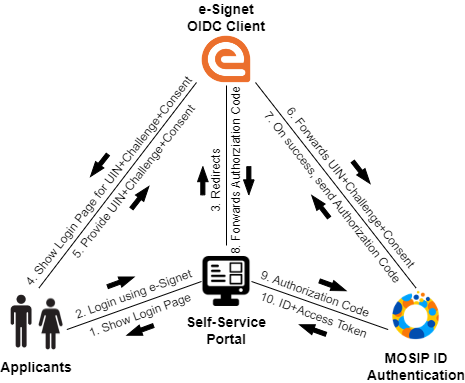
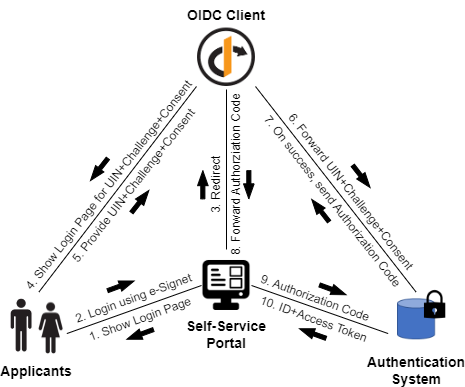
GITBOOK-185: Rework for feedback given by Puneet

diff --git a/beneficiary-management/README.md b/beneficiary-management/README.md
@@ -34,44 +34,60 @@ Program enrolment and entitlement decisions can be monopolized by a single entit
 Not notifying beneficiaries about their enrolment and entitlement can leave them confused, and undermines credibility and transparency. This step is often neglected in administrative-driven systems.
 {% endhint %}
 
-### Program management process
+## OpenG2P program management interface
+
+OpenG2P platform has a backend office application for program administrators. The platform allows multiple programs to run in parallel. These programs enrol the registrants from the same registry database. Its program management module offers a rich set of functions for enrolment, eligibility criteria, program cycles, entitlement, and notifications.
+
+## OpenG2P program management process
 
 The figure below shows a high-level representation of the enrollment management process.
 
 <figure><img src="https://github.com/OpenG2P/openg2p-documentation/raw/a8a98c86cd7b0a186213e588d8642aac12eb64a6/.gitbook/assets/program-management-process.png" alt=""><figcaption></figcaption></figure>
 
-### OpenG2P program management features
+### Eligibility criteria
 
-OpenG2P platform has a backend office application for program administrators. Its program management module offers a rich set of functions to define various beneficiary programs, enrol beneficiaries based on eligibility, calculate entitlements, and disburse benefits to the beneficiaries. These are some of the features provided by the OpenG2P platform:
+Program administrators configure eligibility criteria to enrol the eligible registrants in the program. OpenG2P Eligibility Managers provide these functions:
+
+#### Domain filters
+
+OpenG2P supports a variety of domain filters to set criteria for age, gender, household size, composition, and location. Program administrators can use these filters to define eligibility criteria.
 
 #### Proxy Means Test
 
-The Proxy Means Test is considered the most effective approach to reduce the error of exclusion arising from bias, preferences, and monopoly of the program participants.&#x20;
-
-#### Eligibility filters
-
-OpenG2P supports various eligibility filters to enrol potential beneficiaries based on criteria such as age, gender, household size and composition, and location. Program Administrators can use these filters for Categorical Targeting as well.
+The Proxy Means Test (PMT) is considered the most effective approach to reduce the error of exclusion. PMT is available as a separate plug-in in the OpenG2P platform. Using this plug-in, Program administrators can configure the regression analysis formula.
 
 #### Computed fields
 
-Computed fields are a powerful tool for abstracting information from a set of fields. Program Administrators can use these fields to decide the eligibility of each registrant.
+Computed fields are a powerful tool for abstracting information from a set of fields. Program administrators can use these fields in PMT and domain filters to configure complex eligibility criteria.
 
-#### Document upload and view
+### Deduplication criteria
 
-The supporting documents uploaded by the social workers are stored in the cloud, [MinIO ](https://min.io/)(open-source storage), or any external storage based on the system configuration. Program administrators can later view these documents from the program view for assessment and verification.
+The OpenG2P registry allows [multiple entries](../secure-registry/registry.md#multiple-entries) for the same registrant. Hence once the registrants are enrolled in the program as beneficiaries, they should be deduplicated. OpenG2P Deduplication Managers can deduplicate the beneficiaries based on foundational/functional IDs, and phone numbers.
+
+### Program cycles
+
+Social benefit delivery programs for unemployment benefits, pensions, and scholarships are cyclic in nature and disburse payments in multiple cycles. Using OpenG2P Program Manager and Cycle Manager, the program administrators can create multiple cycles and disburse benefits.
+
+### Entitlements
+
+Program administrators can use OpenG2P Entitlement Manager to configure all the aspects related to beneficiary entitlement. OpenG2P Entitlement Manager provides these configurations:
+
+#### Entitlement amount
+
+Program administrators can configure entitlement amount, currency, and transfer fee. Further, the entitlement amount for each individual in a group and the maximum number of individuals in the group can be configured.&#x20;
+
+#### Entitlement vouchers
+
+An entitlement voucher authorises the intended beneficiary to claim the benefits at the service provider facility. The voucher has customized QR codes embedded. The QR code provides a digital signature that makes the voucher tamper-proof and establishes the authenticity of the voucher.
 
 #### Multi-stage approvals
 
-To avoid concentration of power and errors in decision-making abilities, Program Administrators can configure multiple stages and assign an assessment role for each stage. OpenG2P has successfully run a pilot program for the Philippines in which three program participants - one social worker and two officers, independently assess and approve entitlements.&#x20;
+To avoid concentration of power and errors in deciding the entitlement amount, Program administrators can configure multiple stages and assign a role for each stage.
 
-#### Program cycles
+### Notifications
 
-OpenG2P platform allows the Program Administrators to divide the benefit disbursements into multiple cycles. Multiple cycles can enable the administrators to easily monitor the program for the effectiveness of enrolments and entitlements.
+The beneficiaries can be notified (not shown in the diagram above) when they are entitled to benefits. OpenG2P platform provides Notification Managers that can be configured to send SMS, email, and Fast2SMS notifications to the beneficiaries. These notifications can be customized using templates. To learn more, click [here](notifications.md).
 
-#### Multiple notification channels
+### Document upload and view
 
-OpenG2P can send SMS, email, and Fast2SMS notifications to the beneficiaries. These notifications can be customized based on the mode of notification. To learn more, click [here](notifications.md).
-
-#### Monitoring multiple programs in parallel
-
-OpenG2P platform allows multiple programs to run in parallel. These programs enrol the registrants from the same registry database. Program administrators can use the [integrated reporting framework](../monitoring-and-reporting.md) to generate reports on registrants, beneficiaries, disbursements, and beneficiary categories, to name a few.
+The supporting documents uploaded by the social workers are stored in the cloud, [MinIO ](https://min.io/)(open-source storage), or any external storage based on the system configuration. Program administrators can later view these documents from the program view for assessment and verification.

diff --git a/secure-registry/registration-methods/self-service-portal.md b/secure-registry/registration-methods/self-service-portal.md
@@ -2,7 +2,7 @@
 
 ## Introduction
 
-Self-Service Portal allows an applicant seeking assistance to register from any place and device with internet connectivity. The applicant logs in using a foundational or functional ID and then applies for a program. For self-registration,  an OTP or QR code is typically used in addition to a unique ID number for logging in. For assisted registration, the assisting officer uses a biometric device connected to the machine hosting the Self-Service Portal for biometric authentication.
+Self-Service Portal allows a registrant seeking assistance to register from any place and device with internet connectivity. The registrant logs in using a foundational or functional ID and then applies for a program. For self-registration,  an OTP or QR code is typically used in addition to a unique ID number for logging in. For assisted registration, the assisting officer uses a biometric device connected to the machine hosting the Self-Service Portal for biometric authentication.
 
 The Self-Service Portal registration process assumes that an authentication service is available for ID verification. The portal allows an individual to perform the following functions:
 
@@ -11,30 +11,30 @@ The Self-Service Portal registration process assumes that an authentication serv
 * Track the status of the application
 * Update demographic information
 * Upload supporting documents
-* View the programs the applicant is enrolled into&#x20;
+* View the programs the registrant is enrolled into&#x20;
 * View all the demographic information submitted across programs
 
-Depending on the program implementation, the applicant can also apply for the same program multiple times to seek assistance multiple times. An example of such a case is seeking medical assistance for different treatments. It is assumed that program administrators will apply mechanisms to prevent cases of double-dipping.
+Depending on the program implementation, the registrant can also apply for the same program multiple times to seek assistance multiple times. An example of such a case is seeking medical assistance for different treatments. It is assumed that program administrators will apply mechanisms to prevent cases of double-dipping.
 
 ## Registration process
 
-A program administrator has to carry out these steps to allow applicants to apply for a program:
+A program administrator has to carry out these steps to allow registrants to apply for a program:
 
 * Create a program: To learn the steps, click [here](../../guides/user-guides/create-a-program.md).
 * Create a Self-Service Portal form: To learn the steps, click [here](../../guides/user-guides/create-portal-form.md).
 * Map Self-Service Portal form: To learn the steps, click [here](../../guides/user-guides/map-self-service-portal-form.md).
 
-Applicant's ID verification takes place during the login. The applicant also provides consent to share demographic details with the Self-Service Portal. Upon successful ID verification, the Self-Service Portal can automatically fill in the applicant's demographic details based on the consent provided during login. The applicant fills in the rest of the details and applies for a program. Learn more about self-registration [here](../../guides/user-guides/self-register-online.md).
+Registrant's ID verification takes place during the login. The registrant also provides consent to share demographic details with the Self-Service Portal. Upon successful ID verification, the Self-Service Portal can automatically fill in the registrant's demographic details based on the consent provided during login. The registrant fills in the rest of the details and applies for a program. Learn more about self-registration [here](../../guides/user-guides/self-register-online.md).
 
 ## OpenID Connect integration
 
 The Self-Service Portal allows integration with any OpenID Connect (OIDC) client. The portal has an existing integration with [e-Signet](https://docs.esignet.io/). To learn more about ID verification using e-Signet, click [here](../id-verification.md#applicant-authentication-using-e-signet).
 
-### MOSIP integration
+### OIDC integration
 
-The Self-Service Portal also integrates with MOSIP to provide user login via MOSIP ID.
+The Self-Service Portal can integrate with any OIDC server to provide user login.
 
-<figure><img src="../../.gitbook/assets/ssp-login-page (1).png" alt=""><figcaption></figcaption></figure>
+<figure><img src="../../.gitbook/assets/integration-with-oidc (1).png" alt=""><figcaption></figcaption></figure>
 
 ## Registration demo
 

diff --git a/secure-registry/id-verification.md b/secure-registry/id-verification.md
@@ -2,20 +2,20 @@
 
 ## Introduction
 
-OpenG2P registration interfaces can be integrated with OIDC clients and ID authentication systems to authenticate applicants/registrants. OpenG2P employs different ID authentication mechanisms in its registration interfaces. While these are the preferred mechanisms, OpenG2P is not tied to these mechanisms and can integrate with other OIDC-compliant clients and authentication systems like the national ID database.
+OpenG2P registration interfaces can be integrated with OIDC clients and ID authentication systems to authenticate registrants. OpenG2P employs different ID authentication mechanisms in its registration interfaces. While these are the preferred mechanisms, OpenG2P is not tied to these mechanisms and can integrate with other OIDC-compliant clients of authentication systems for foundational/functional ID.
 
 ### Registrant authentication using OpenID Connect
 
-OpenG2P's Self-Service Portal can be integrated with an OpenID Connect Client such as e-Signet to build a trustworthy authentication interface. The OIDC Client utilizes an authentication system such as MOSIP or national ID database to authenticate the applicants in the backend.&#x20;
+OpenG2P's Self-Service Portal can be integrated with an OpenID Connect Client such as e-Signet to build a trustworthy authentication interface. The OIDC Client utilizes an authentication system of any foundational or functional ID database to authenticate the registrants in the backend.&#x20;
 
-<figure><img src="https://github.com/OpenG2P/openg2p-documentation/raw/e9fdceeedd6e483eb45098b9a72f013a331451cf/.gitbook/assets/authentication-using-esignet.png" alt=""><figcaption></figcaption></figure>
+<figure><img src="../.gitbook/assets/authentication-using-esignet.drawio.png" alt=""><figcaption></figcaption></figure>
 
 A few key points to note in this process are:
 
 * The challenge could be OTP, biometric, or QR code.
-* The applicant shares the UIN, challenge, and consent via the authentication client.
+* The registrant shares the UIN, challenge, and consent via the authentication client.
 * The Self-Service Portal must get an Authorization Code before requesting the Access Token.
-* The Self-Service Portal gets access to the applicant's details after it receives the Access Token from the authentication system.
+* The Self-Service Portal gets access to the registrant's details after it receives the Access Token from the authentication system.
 * &#x20;UIN, challenge, and consent are shared in separate transactions. To view the e-Signet authentication process in detail, click [here](../integrations/integration-with-mosip/integration-with-e-signet.md).
 
 ### Registrant authentication using ID Authentication

diff --git a/secure-registry/README.md b/secure-registry/README.md
@@ -38,9 +38,9 @@ While on-demand and administrative-driven approaches are distinct models describ
 
 OpenG2P registration interfaces are key client-facing interfaces. The clients here could be the applicants, social workers, program administrators, program managers, etc. These are the main features offered by these interfaces:
 
-#### **Authentic**
+#### **Authentication**
 
-During online registrations, the applicants log into the system using their MOSIP ID/national ID and verify themselves. For registrations in offline mode, the registrants are authenticated using their demographic information by an authentication system.
+During online registrations, the registrants log into the system using their MOSIP ID/national ID and verify themselves. For registrations in offline mode, the registrants are authenticated using their identity number and demographic information by an ID authentication system.
 
 #### **Offline mode**
 
@@ -48,7 +48,7 @@ OpenG2P's [ODK Collect App](registration-methods/offline-registration.md) allows
 
 #### **Secure**
 
-The applicant's information is encrypted at rest and during transit to secure the demographic information against malicious attacks.
+The registrant's information is encrypted at rest and during transit to secure the demographic information against malicious attacks.
 
 #### **Privacy-preserving**
 
@@ -58,11 +58,7 @@ The platform allows consent forms to be filled out and recorded before starting 
 
 The applicant information is filled in using application forms (intake sheets). These application forms can be customized per the assessment information required by the program.
 
-#### Notifications
-
-The platform can be configured to send [Notifications](../beneficiary-management/notifications.md) to the applicants via email and SMS.
-
-## Assistance unit
+## Assistance unit - group/individual
 
 OpenG2P defines an assistance unit as an **individual** or a **group**. A group may be a household, family, or any other group to which the program is targeted.&#x20;
 

diff --git a/privacy-and-security.md b/privacy-and-security.md
@@ -1,6 +1,6 @@
 # 🔐 Privacy & Security
 
-OpenG2P is a robust and versatile platform built upon the Odoo framework, providing governments and organisations with a comprehensive solution for delivering benefits efficiently. As OpenG2P handles sensitive beneficiary information, maintaining the highest standards of security is paramount.&#x20;
+OpenG2P is a robust and versatile platform built upon the Odoo framework, providing governments and organisations with a comprehensive solution for delivering benefits efficiently. As OpenG2P handles sensitive beneficiary information including personally identifiable information (PII), maintaining the highest standards of security is paramount.&#x20;
 
 ## User Authentication and Access Control
 

diff --git a/SUMMARY.md b/SUMMARY.md
@@ -11,7 +11,6 @@
     * [Bulk Export From CSV](secure-registry/registration-methods/bulk-export-from-csv.md)
   * [ID Verification](secure-registry/id-verification.md)
   * [Registry](secure-registry/registry.md)
-    * [Privacy in Registry](secure-registry/registry/privacy-in-registry.md)
 * [🅿 Program Management](beneficiary-management/README.md)
   * [Eligibility Assessment](beneficiary-management/eligibility.md)
   * [Proxy Means Test](beneficiary-management/proxy-means-test.md)
